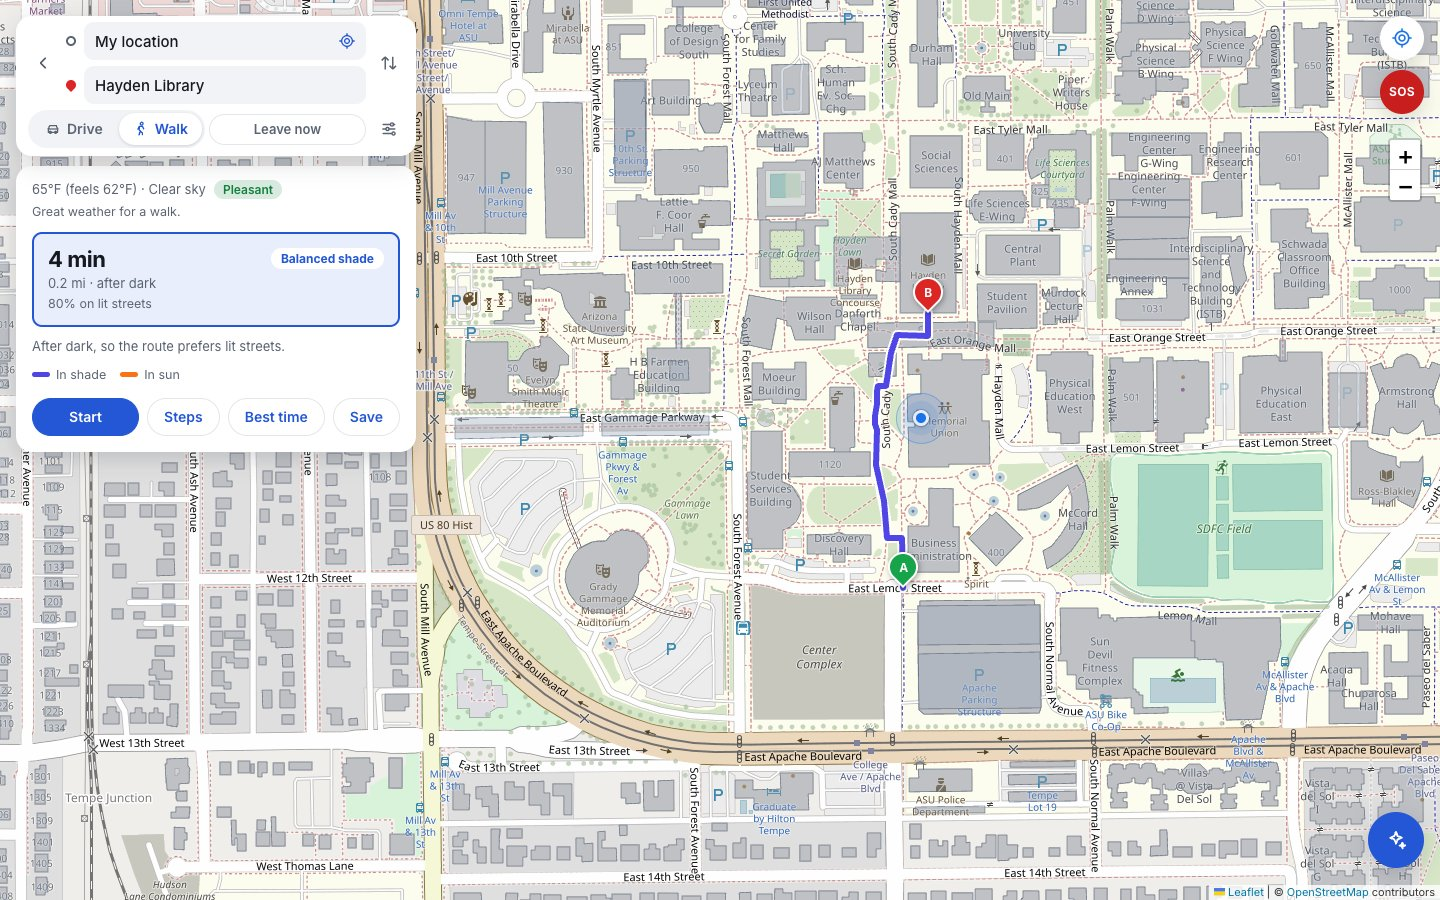
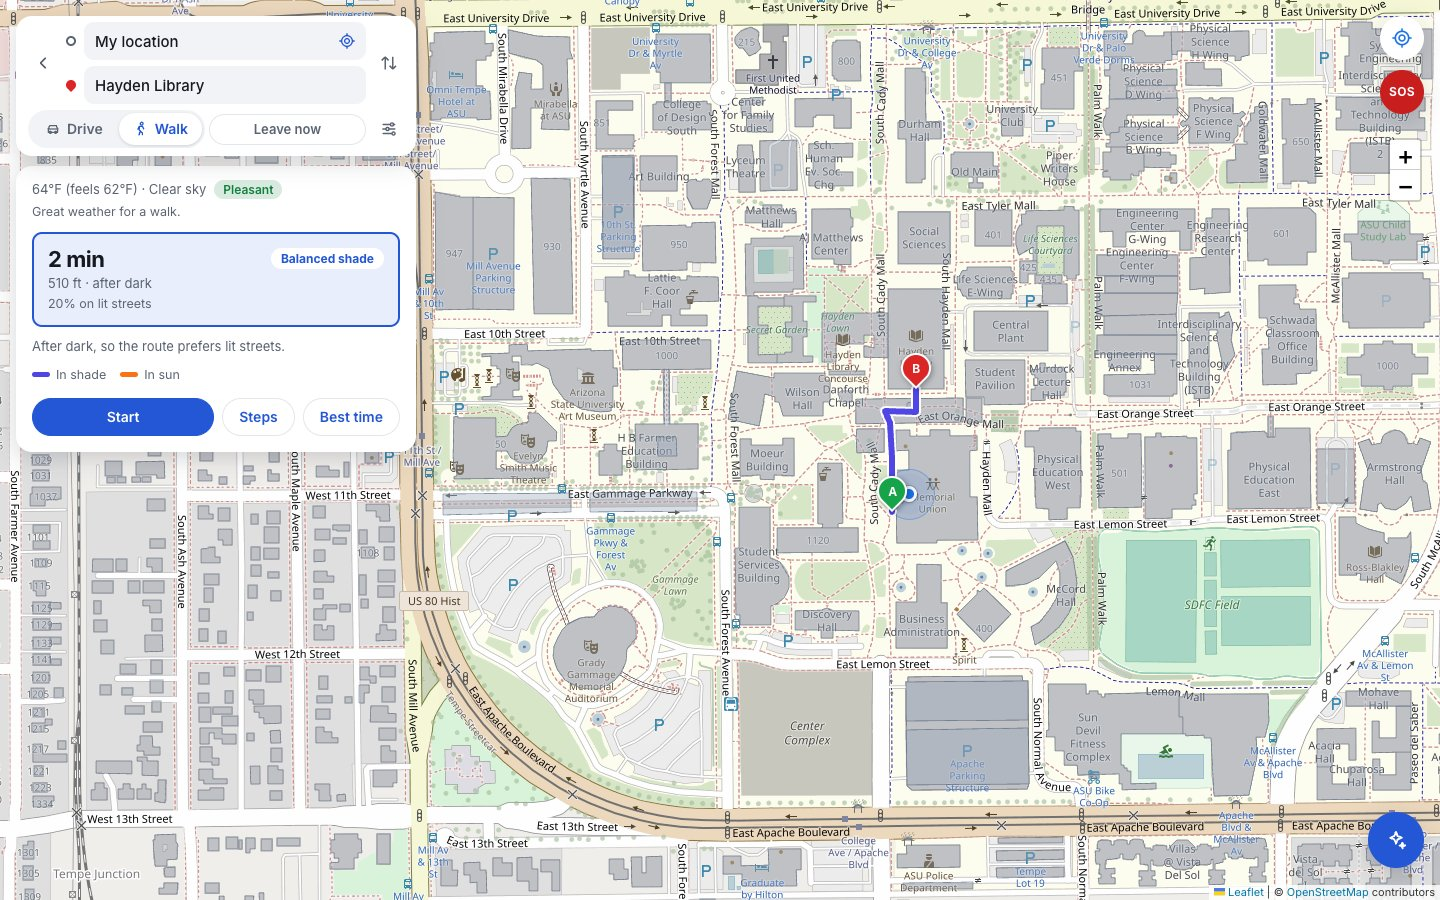
Fix walk starting from the drive route's road; correct screenshot

diff --git a/web/js/app.js b/web/js/app.js
@@ -678,13 +678,12 @@ async function setWaypoint(kind, latlng, label = null, access = null) {
   }
   syncUrl();
   if (access || label) return;
-  // Only one point so far: show which intersection was picked.
+  // Only one point so far: name it after the nearest intersection (the point itself is kept, so
+  // each travel mode can snap it to its own network).
   const id = ++state.requestId;
   try {
     const snapped = await api.nearest(state[kind]);
     if (id !== state.requestId) return;
-    state[kind] = toLatLng(snapped.position);
-    view.setMarker(kind, state[kind]);
     setWaypointLabel(kind, snapped.label);
   } catch (err) {
     if (id !== state.requestId) return;
@@ -773,11 +772,11 @@ function routeChoices(r) {
 
 /** Show a route response (from planning or the assistant) on the map and in the sheet. */
 async function displayRoute(route, id) {
-  // Move markers onto the points the engine routed between (for a building, the entrance it picked).
-  state.origin = toLatLng(route.origin.position);
-  state.destination = toLatLng(route.destination.position);
-  view.setMarker("origin", state.origin);
-  view.setMarker("destination", state.destination);
+  // Pins go where the route really starts and ends (the nearest road or walkway, or the entrance a
+  // building route picked). The requested points stay in `state` untouched, so switching between
+  // Drive and Walk re-snaps from where the user is, not from the other mode's road.
+  view.setMarker("origin", toLatLng(route.origin.position));
+  view.setMarker("destination", toLatLng(route.destination.position));
   setWaypointLabel("origin", route.origin.label);
   setWaypointLabel("destination", route.destination.label);
   syncUrl();
@@ -816,6 +815,13 @@ async function displayRoute(route, id) {
 
 function drawChoices(fit) {
   view.drawRoutes(state.choices, state.selected, selectRoute, { fit });
+  // Dotted links from the requested points (e.g. the blue dot) to where the route starts and ends.
+  const r = state.response;
+  if (!r) return;
+  const links = [];
+  if (!state.access.origin) links.push([state.origin, toLatLng(r.origin.position)]);
+  if (!state.access.destination) links.push([toLatLng(r.destination.position), state.destination]);
+  view.drawConnectors(links.filter(([a, b]) => a && b));
 }
 
 function selectRoute(index) {
@@ -936,6 +942,8 @@ function renderStats(route) {
 function showAssistantRoute(route) {
   selectOption("mode", route.mode);
   applyMode();
+  state.origin = toLatLng(route.origin.position);
+  state.destination = toLatLng(route.destination.position);
   state.labels = { origin: route.origin.label, destination: route.destination.label };
   state.access = { origin: null, destination: null };
   const zoned = unixToZoned(route.time, state.timezone);

diff --git a/web/js/map-view.js b/web/js/map-view.js
@@ -262,6 +262,24 @@ export class MapView {
     }
   }
 
+  /**
+   * Dotted lines from requested points to the route (the walk from your location to the nearest road),
+   * drawn only when they are long enough to notice.
+   * @param {[{lat: number, lng: number}, {lat: number, lng: number}][]} links
+   */
+  drawConnectors(links) {
+    for (const [a, b] of links) {
+      if (this.map.distance(a, b) < 10) continue;
+      L.polyline([a, b], {
+        color: cssVar("--text-subtle"),
+        weight: 3,
+        dashArray: "2 7",
+        lineCap: "round",
+        interactive: false,
+      }).addTo(this.routeLayer);
+    }
+  }
+
   /** Bring a point into view (e.g. a place picked from search), zooming in if far out. */
   reveal(latlng) {
     if (this.map.getBounds().pad(-0.15).contains(latlng) && this.map.getZoom() >= 14) return;

diff --git a/README.md b/README.md
@@ -95,7 +95,7 @@ Dijkstra runs, instead of one route per fountain.
 
 ## Directions to ASU buildings
 
-![Walk from the Memorial Union to Hayden Library in the evening: it ends at the library's mapped entrance and prefers lit streets](docs/images/walk-building.jpg)
+![Walk from your location at the Memorial Union to Hayden Library in the evening: it ends at the library's mapped entrance and prefers lit streets](docs/images/walk-building.jpg)
 
 Each building knows its mapped entrances or, where none are mapped, 12 points around its footprint.
 All of them become targets of **one** multi-target search, so the route ends at the door that is

diff --git a/CHANGELOG.md b/CHANGELOG.md
@@ -36,6 +36,9 @@ All notable changes to Umbra. Dates are in UTC.
   installable web app (PWA), Dockerfile, CodeQL and Dependabot.
 
 ### Fixed
+- Switching between Drive and Walk no longer starts the walk from the drive route's road: the points
+  you choose (your location, a map click) are kept, and each mode snaps them to its own network.
+  A dotted line links your point to the route where they differ.
 - Emergency alerts take a fresh, high-accuracy location fix (started when the countdown starts)
   instead of reusing the last known position, which could be stale.
 
